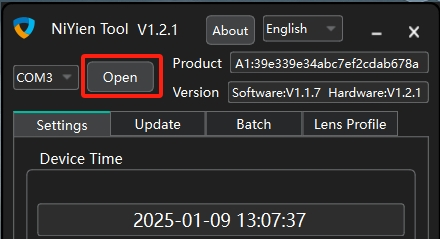
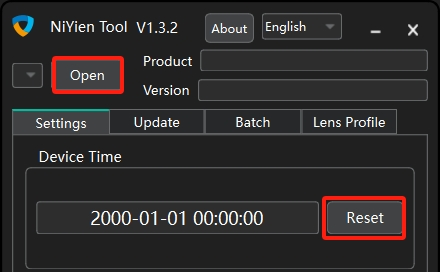
update

diff --git a/NiYien_manual_EN.html b/NiYien_manual_EN.html
@@ -1710,7 +1710,7 @@ a img {
 </style><title>NiYien_manual_EN</title>
 </head>
 <body class='typora-export os-windows typora-export-show-outline typora-export-no-collapse-outline'><div class='typora-export-content'>
-<div class="typora-export-sidebar"><div class="outline-content"><li class="outline-item-wrapper outline-h2"><div class="outline-item"><span class="outline-expander"></span><a class="outline-label" href="#video-tutorial">Video Tutorial</a></div><ul class="outline-children"></ul></li><li class="outline-item-wrapper outline-h2"><div class="outline-item"><span class="outline-expander"></span><a class="outline-label" href="#download-link">Download Link</a></div><ul class="outline-children"></ul></li><li class="outline-item-wrapper outline-h2"><div class="outline-item"><span class="outline-expander"></span><a class="outline-label" href="#faq-and-group-chat">FAQ and Group chat</a></div><ul class="outline-children"></ul></li><li class="outline-item-wrapper outline-h2"><div class="outline-item"><span class="outline-expander"></span><a class="outline-label" href="#1-introduction-to-gyroflow">1. Introduction to Gyroflow</a></div><ul class="outline-children"></ul></li><li class="outline-item-wrapper outline-h2"><div class="outline-item"><span class="outline-expander"></span><a class="outline-label" href="#2-device-introduction-and-basic-operations">2. Device Introduction and Basic Operations</a></div><ul class="outline-children"><li class="outline-item-wrapper outline-h3"><div class="outline-item"><span class="outline-expander"></span><a class="outline-label" href="#21-introduction">2.1 Introduction</a></div><ul class="outline-children"></ul></li><li class="outline-item-wrapper outline-h3"><div class="outline-item"><span class="outline-expander"></span><a class="outline-label" href="#22-operations">2.2 Operations</a></div><ul class="outline-children"><li class="outline-item-wrapper outline-h4"><div class="outline-item"><span class="outline-expander"></span><a class="outline-label" href="#221-button-operations">2.2.1 Button Operations</a></div><ul class="outline-children"></ul></li><li class="outline-item-wrapper outline-h4"><div class="outline-item"><span class="outline-expander"></span><a class="outline-label" href="#222-functions-and-interface-display">2.2.2 Functions and Interface Display</a></div><ul class="outline-children"></ul></li></ul></li><li class="outline-item-wrapper outline-h3"><div class="outline-item"><span class="outline-expander"></span><a class="outline-label" href="#24-gyroscope-calibration">2.4 Gyroscope calibration</a></div><ul class="outline-children"></ul></li><li class="outline-item-wrapper outline-h3"><div class="outline-item"><span class="outline-expander"></span><a class="outline-label" href="#25-memory-card-reading-and-formatting">2.5 Memory card reading and Formatting</a></div><ul class="outline-children"></ul></li><li class="outline-item-wrapper outline-h3"><div class="outline-item"><span class="outline-expander"></span><a class="outline-label" href="#25-firmware-upgrade">2.5 Firmware Upgrade</a></div><ul class="outline-children"></ul></li></ul></li><li class="outline-item-wrapper outline-h2"><div class="outline-item"><span class="outline-expander"></span><a class="outline-label" href="#3-camera-synchronization">3. Camera Synchronization</a></div><ul class="outline-children"><li class="outline-item-wrapper outline-h3"><div class="outline-item"><span class="outline-expander"></span><a class="outline-label" href="#31-camera-settings">3.1 Camera settings</a></div><ul class="outline-children"></ul></li><li class="outline-item-wrapper outline-h3"><div class="outline-item"><span class="outline-expander"></span><a class="outline-label" href="#32-time-synchronization-operation">3.2 Time synchronization operation</a></div><ul class="outline-children"></ul></li></ul></li><li class="outline-item-wrapper outline-h2"><div class="outline-item"><span class="outline-expander"></span><a class="outline-label" href="#4-software-installation">4. Software installation</a></div><ul class="outline-children"><li class="outline-item-wrapper outline-h3"><div class="outline-item"><span class="outline-expander"></span><a class="outline-label" href="#41-gyroflow-installation">4.1 Gyroflow Installation</a></div><ul class="outline-children"><li class="outline-item-wrapper outline-h4 outline-item-open"><div class="outline-item"><span class="outline-expander"></span><a class="outline-label" href="#411-windows-installation">4.1.1 Windows Installation</a></div><ul class="outline-children"></ul></li><li class="outline-item-wrapper outline-h4"><div class="outline-item"><span class="outline-expander"></span><a class="outline-label" href="#412-macos-installation">4.1.2 Macos Installation</a></div><ul class="outline-children"></ul></li></ul></li><li class="outline-item-wrapper outline-h3"><div class="outline-item"><span class="outline-expander"></span><a class="outline-label" href="#42-niyien-tool-installation">4.2 NiYien Tool Installation</a></div><ul class="outline-children"><li class="outline-item-wrapper outline-h4"><div class="outline-item"><span class="outline-expander"></span><a class="outline-label" href="#421-windows">4.2.1 Windows</a></div><ul class="outline-children"></ul></li><li class="outline-item-wrapper outline-h4"><div class="outline-item"><span class="outline-expander"></span><a class="outline-label" href="#422-macos">4.2.2 Macos</a></div><ul class="outline-children"></ul></li></ul></li></ul></li><li class="outline-item-wrapper outline-h2"><div class="outline-item"><span class="outline-expander"></span><a class="outline-label" href="#5niyien-tool-usage">5.NiYien Tool Usage</a></div><ul class="outline-children"><li class="outline-item-wrapper outline-h3"><div class="outline-item"><span class="outline-expander"></span><a class="outline-label" href="#51-importing-videos">5.1 Importing Videos</a></div><ul class="outline-children"></ul></li><li class="outline-item-wrapper outline-h3"><div class="outline-item"><span class="outline-expander"></span><a class="outline-label" href="#52-time-synchronization-and-data-allocation">5.2 Time Synchronization and Data Allocation</a></div><ul class="outline-children"></ul></li><li class="outline-item-wrapper outline-h3"><div class="outline-item"><span class="outline-expander"></span><a class="outline-label" href="#53-lens-profiles">5.3 Lens Profiles</a></div><ul class="outline-children"></ul></li><li class="outline-item-wrapper outline-h3"><div class="outline-item"><span class="outline-expander"></span><a class="outline-label" href="#531-lens-profile-generation-for-manual-mode">5.3.1 Lens Profile Generation (For Manual Mode)</a></div><ul class="outline-children"></ul></li><li class="outline-item-wrapper outline-h3"><div class="outline-item"><span class="outline-expander"></span><a class="outline-label" href="#54-stabilization-settings">5.4 Stabilization settings</a></div><ul class="outline-children"><li class="outline-item-wrapper outline-h4"><div class="outline-item"><span class="outline-expander"></span><a class="outline-label" href="#541-vertical-shooting">5.4.1 Vertical Shooting</a></div><ul class="outline-children"></ul></li><li class="outline-item-wrapper outline-h4"><div class="outline-item"><span class="outline-expander"></span><a class="outline-label" href="#542-installation-direction">5.4.2 Installation direction</a></div><ul class="outline-children"></ul></li><li class="outline-item-wrapper outline-h4"><div class="outline-item"><span class="outline-expander"></span><a class="outline-label" href="#543-lock-horizon-for-fpv-auto-rotation-sync-speed">5.4.3 Lock horizon, For FPV, Auto Rotation, Sync speed</a></div><ul class="outline-children"></ul></li><li class="outline-item-wrapper outline-h4"><div class="outline-item"><span class="outline-expander"></span><a class="outline-label" href="#544-match-list-and-settings">5.4.4 Match List and Settings</a></div><ul class="outline-children"></ul></li></ul></li><li class="outline-item-wrapper outline-h3"><div class="outline-item"><span class="outline-expander"></span><a class="outline-label" href="#55-export">5.5 Export</a></div><ul class="outline-children"></ul></li><li class="outline-item-wrapper outline-h3"><div class="outline-item"><span class="outline-expander"></span><a class="outline-label" href="#56-other-settings">5.6 Other Settings</a></div><ul class="outline-children"><li class="outline-item-wrapper outline-h4"><div class="outline-item"><span class="outline-expander"></span><a class="outline-label" href="#561-clock-setting">5.6.1 Clock Setting</a></div><ul class="outline-children"></ul></li><li class="outline-item-wrapper outline-h4"><div class="outline-item"><span class="outline-expander"></span><a class="outline-label" href="#562-focal-length-display">5.6.2 Focal Length Display</a></div><ul class="outline-children"></ul></li></ul></li><li class="outline-item-wrapper outline-h3"><div class="outline-item"><span class="outline-expander"></span><a class="outline-label" href="#563-firmware-upgrade">5.6.3 Firmware Upgrade</a></div><ul class="outline-children"></ul></li></ul></li><li class="outline-item-wrapper outline-h2"><div class="outline-item"><span class="outline-expander"></span><a class="outline-label" href="#6video-plugin-usage">6.Video Plugin Usage</a></div><ul class="outline-children"><li class="outline-item-wrapper outline-h3"><div class="outline-item"><span class="outline-expander"></span><a class="outline-label" href="#61-plugins-installation">6.1 Plugins Installation</a></div><ul class="outline-children"></ul></li><li class="outline-item-wrapper outline-h3"><div class="outline-item"><span class="outline-expander"></span><a class="outline-label" href="#62-davinci-resolve-plugin">6.2 DaVinci Resolve Plugin</a></div><ul class="outline-children"></ul></li><li class="outline-item-wrapper outline-h3"><div class="outline-item"><span class="outline-expander"></span><a class="outline-label" href="#73-prae-plugin">7.3 PR/AE Plugin</a></div><ul class="outline-children"></ul></li></ul></li><li class="outline-item-wrapper outline-h2"><div class="outline-item"><span class="outline-expander"></span><a class="outline-label" href="#7use-of-gyroflowsingle-video-stabilisation">7.Use of Gyroflow(Single video stabilisation)</a></div><ul class="outline-children"><li class="outline-item-wrapper outline-h3"><div class="outline-item"><span class="outline-expander"></span><a class="outline-label" href="#71-language-settings">7.1 Language Settings</a></div><ul class="outline-children"></ul></li><li class="outline-item-wrapper outline-h3"><div class="outline-item"><span class="outline-expander"></span><a class="outline-label" href="#72-interface">7.2 Interface</a></div><ul class="outline-children"><li class="outline-item-wrapper outline-h4"><div class="outline-item"><span class="outline-expander"></span><a class="outline-label" href="#721-footage-panel">7.2.1 Footage Panel</a></div><ul class="outline-children"></ul></li><li class="outline-item-wrapper outline-h4"><div class="outline-item"><span class="outline-expander"></span><a class="outline-label" href="#722-parameter-panel">7.2.2 Parameter Panel</a></div><ul class="outline-children"></ul></li><li class="outline-item-wrapper outline-h4"><div class="outline-item"><span class="outline-expander"></span><a class="outline-label" href="#723-data-panel">7.2.3 Data Panel</a></div><ul class="outline-children"></ul></li></ul></li><li class="outline-item-wrapper outline-h3"><div class="outline-item"><span class="outline-expander"></span><a class="outline-label" href="#73-video-stabilisation">7.3 Video stabilisation</a></div><ul class="outline-children"><li class="outline-item-wrapper outline-h4"><div class="outline-item"><span class="outline-expander"></span><a class="outline-label" href="#731-single-video-stabilization">7.3.1 Single Video Stabilization</a></div><ul class="outline-children"></ul></li><li class="outline-item-wrapper outline-h4"><div class="outline-item"><span class="outline-expander"></span><a class="outline-label" href="#732-exporting-video">7.3.2 Exporting Video</a></div><ul class="outline-children"></ul></li></ul></li></ul></li><li class="outline-item-wrapper outline-h2"><div class="outline-item"><span class="outline-expander"></span><a class="outline-label" href="#8faq">8.FAQ</a></div><ul class="outline-children"><li class="outline-item-wrapper outline-h3"><div class="outline-item"><span class="outline-expander"></span><a class="outline-label" href="#81-in-macos-batch-synchronization-failed-or-videos-can-not-loaded-in-gyroflow">8.1 In MacOS, Batch synchronization failed or videos can not loaded in gyroflow.</a></div><ul class="outline-children"></ul></li><li class="outline-item-wrapper outline-h3"><div class="outline-item"><span class="outline-expander"></span><a class="outline-label" href="#82-abnormal-stabilization">8.2 Abnormal Stabilization</a></div><ul class="outline-children"></ul></li><li class="outline-item-wrapper outline-h3"><div class="outline-item"><span class="outline-expander"></span><a class="outline-label" href="#83-stabilization-effective-but-vestigial-or-jelly-image">8.3 Stabilization effective but vestigial or jelly image.</a></div><ul class="outline-children"></ul></li><li class="outline-item-wrapper outline-h3"><div class="outline-item"><span class="outline-expander"></span><a class="outline-label" href="#84-forgot-to-record-time-synchronization-video">8.4 Forgot to record time synchronization video</a></div><ul class="outline-children"></ul></li><li class="outline-item-wrapper outline-h3"><div class="outline-item"><span class="outline-expander"></span><a class="outline-label" href="#85-success-in-gyroflow-but-failed-in-davinci-plugin">8.5 Success in Gyroflow but failed in DaVinci plugin</a></div><ul class="outline-children"></ul></li></ul></li></div></div><div id='write'  class=''><h2 id='video-tutorial'><span>Video Tutorial</span></h2><blockquote><p>👉<span> </span><a href='https://b23.tv/kycTbTD' target="_blank" ><span><span>Click here for the HD version </span></span></a></p></blockquote><iframe src="https://player.bilibili.com/player.html?isOutside=true&aid=1053012894&bvid=BV1rH4y1M7UL&cid=28721744775&p=1&autoplay=0" scrolling="no" border="0" frameborder="no" framespacing="0" allowfullscreen="true" style="width: 100%; aspect-ratio: 16/9;"></iframe><h2 id='download-link'><span>Download Link</span></h2><blockquote><p>👉<span> </span><a href='https://drive.google.com/drive/folders/14lVHH6HA2oLJyfxAodWUDE8_jFBOleJf?usp=sharing' target="_blank" ><span><span>NiYien Tool for MacOS</span></span></a>
+<div class="typora-export-sidebar"><div class="outline-content"><li class="outline-item-wrapper outline-h2"><div class="outline-item"><span class="outline-expander"></span><a class="outline-label" href="#video-tutorial">Video Tutorial</a></div><ul class="outline-children"></ul></li><li class="outline-item-wrapper outline-h2"><div class="outline-item"><span class="outline-expander"></span><a class="outline-label" href="#download-link">Download Link</a></div><ul class="outline-children"></ul></li><li class="outline-item-wrapper outline-h2"><div class="outline-item"><span class="outline-expander"></span><a class="outline-label" href="#faq-and-group-chat">FAQ and Group chat</a></div><ul class="outline-children"></ul></li><li class="outline-item-wrapper outline-h2"><div class="outline-item"><span class="outline-expander"></span><a class="outline-label" href="#1-introduction-to-gyroflow">1. Introduction to Gyroflow</a></div><ul class="outline-children"></ul></li><li class="outline-item-wrapper outline-h2"><div class="outline-item"><span class="outline-expander"></span><a class="outline-label" href="#2-device-introduction-and-basic-operations">2. Device Introduction and Basic Operations</a></div><ul class="outline-children"><li class="outline-item-wrapper outline-h3"><div class="outline-item"><span class="outline-expander"></span><a class="outline-label" href="#21-introduction">2.1 Introduction</a></div><ul class="outline-children"></ul></li><li class="outline-item-wrapper outline-h3"><div class="outline-item"><span class="outline-expander"></span><a class="outline-label" href="#22-operations">2.2 Operations</a></div><ul class="outline-children"><li class="outline-item-wrapper outline-h4"><div class="outline-item"><span class="outline-expander"></span><a class="outline-label" href="#221-button-operations">2.2.1 Button Operations</a></div><ul class="outline-children"></ul></li><li class="outline-item-wrapper outline-h4"><div class="outline-item"><span class="outline-expander"></span><a class="outline-label" href="#222-functions-and-interface-display">2.2.2 Functions and Interface Display</a></div><ul class="outline-children"></ul></li></ul></li><li class="outline-item-wrapper outline-h3"><div class="outline-item"><span class="outline-expander"></span><a class="outline-label" href="#24-gyroscope-calibration">2.4 Gyroscope calibration</a></div><ul class="outline-children"></ul></li><li class="outline-item-wrapper outline-h3"><div class="outline-item"><span class="outline-expander"></span><a class="outline-label" href="#25-memory-card-reading-and-formatting">2.5 Memory card reading and Formatting</a></div><ul class="outline-children"></ul></li><li class="outline-item-wrapper outline-h3"><div class="outline-item"><span class="outline-expander"></span><a class="outline-label" href="#25-firmware-upgrade">2.5 Firmware Upgrade</a></div><ul class="outline-children"></ul></li></ul></li><li class="outline-item-wrapper outline-h2"><div class="outline-item"><span class="outline-expander"></span><a class="outline-label" href="#3-camera-synchronization">3. Camera Synchronization</a></div><ul class="outline-children"><li class="outline-item-wrapper outline-h3"><div class="outline-item"><span class="outline-expander"></span><a class="outline-label" href="#31-camera-settings">3.1 Camera settings</a></div><ul class="outline-children"></ul></li><li class="outline-item-wrapper outline-h3"><div class="outline-item"><span class="outline-expander"></span><a class="outline-label" href="#32-time-synchronization-operation">3.2 Time synchronization operation</a></div><ul class="outline-children"></ul></li></ul></li><li class="outline-item-wrapper outline-h2"><div class="outline-item"><span class="outline-expander"></span><a class="outline-label" href="#4-software-installation">4. Software installation</a></div><ul class="outline-children"><li class="outline-item-wrapper outline-h3"><div class="outline-item"><span class="outline-expander"></span><a class="outline-label" href="#41-gyroflow-installation">4.1 Gyroflow Installation</a></div><ul class="outline-children"><li class="outline-item-wrapper outline-h4"><div class="outline-item"><span class="outline-expander"></span><a class="outline-label" href="#411-windows-installation">4.1.1 Windows Installation</a></div><ul class="outline-children"></ul></li><li class="outline-item-wrapper outline-h4"><div class="outline-item"><span class="outline-expander"></span><a class="outline-label" href="#412-macos-installation">4.1.2 Macos Installation</a></div><ul class="outline-children"></ul></li></ul></li><li class="outline-item-wrapper outline-h3"><div class="outline-item"><span class="outline-expander"></span><a class="outline-label" href="#42-niyien-tool-installation">4.2 NiYien Tool Installation</a></div><ul class="outline-children"><li class="outline-item-wrapper outline-h4"><div class="outline-item"><span class="outline-expander"></span><a class="outline-label" href="#421-windows">4.2.1 Windows</a></div><ul class="outline-children"></ul></li><li class="outline-item-wrapper outline-h4"><div class="outline-item"><span class="outline-expander"></span><a class="outline-label" href="#422-macos">4.2.2 Macos</a></div><ul class="outline-children"></ul></li></ul></li></ul></li><li class="outline-item-wrapper outline-h2"><div class="outline-item"><span class="outline-expander"></span><a class="outline-label" href="#5niyien-tool-usage">5.NiYien Tool Usage</a></div><ul class="outline-children"><li class="outline-item-wrapper outline-h3"><div class="outline-item"><span class="outline-expander"></span><a class="outline-label" href="#51-importing-videos">5.1 Importing Videos</a></div><ul class="outline-children"></ul></li><li class="outline-item-wrapper outline-h3"><div class="outline-item"><span class="outline-expander"></span><a class="outline-label" href="#52-time-synchronization-and-data-allocation">5.2 Time Synchronization and Data Allocation</a></div><ul class="outline-children"></ul></li><li class="outline-item-wrapper outline-h3"><div class="outline-item"><span class="outline-expander"></span><a class="outline-label" href="#53-lens-profiles">5.3 Lens Profiles</a></div><ul class="outline-children"></ul></li><li class="outline-item-wrapper outline-h3"><div class="outline-item"><span class="outline-expander"></span><a class="outline-label" href="#531-lens-profile-generation-for-manual-mode">5.3.1 Lens Profile Generation (For Manual Mode)</a></div><ul class="outline-children"></ul></li><li class="outline-item-wrapper outline-h3"><div class="outline-item"><span class="outline-expander"></span><a class="outline-label" href="#54-stabilization-settings">5.4 Stabilization settings</a></div><ul class="outline-children"><li class="outline-item-wrapper outline-h4"><div class="outline-item"><span class="outline-expander"></span><a class="outline-label" href="#541-vertical-shooting">5.4.1 Vertical Shooting</a></div><ul class="outline-children"></ul></li><li class="outline-item-wrapper outline-h4"><div class="outline-item"><span class="outline-expander"></span><a class="outline-label" href="#542-installation-direction">5.4.2 Installation direction</a></div><ul class="outline-children"></ul></li><li class="outline-item-wrapper outline-h4"><div class="outline-item"><span class="outline-expander"></span><a class="outline-label" href="#543-lock-horizon-for-fpv-auto-rotation-sync-speed">5.4.3 Lock horizon, For FPV, Auto Rotation, Sync speed</a></div><ul class="outline-children"></ul></li><li class="outline-item-wrapper outline-h4"><div class="outline-item"><span class="outline-expander"></span><a class="outline-label" href="#544-match-list-and-settings">5.4.4 Match List and Settings</a></div><ul class="outline-children"></ul></li></ul></li><li class="outline-item-wrapper outline-h3"><div class="outline-item"><span class="outline-expander"></span><a class="outline-label" href="#55-export">5.5 Export</a></div><ul class="outline-children"></ul></li><li class="outline-item-wrapper outline-h3"><div class="outline-item"><span class="outline-expander"></span><a class="outline-label" href="#56-other-settings">5.6 Other Settings</a></div><ul class="outline-children"><li class="outline-item-wrapper outline-h4 outline-item-open"><div class="outline-item"><span class="outline-expander"></span><a class="outline-label" href="#561-clock-setting">5.6.1 Clock Setting</a></div><ul class="outline-children"></ul></li><li class="outline-item-wrapper outline-h4"><div class="outline-item"><span class="outline-expander"></span><a class="outline-label" href="#562-focal-length-display">5.6.2 Focal Length Display</a></div><ul class="outline-children"></ul></li></ul></li><li class="outline-item-wrapper outline-h3"><div class="outline-item"><span class="outline-expander"></span><a class="outline-label" href="#563-firmware-upgrade">5.6.3 Firmware Upgrade</a></div><ul class="outline-children"></ul></li></ul></li><li class="outline-item-wrapper outline-h2"><div class="outline-item"><span class="outline-expander"></span><a class="outline-label" href="#6video-plugin-usage">6.Video Plugin Usage</a></div><ul class="outline-children"><li class="outline-item-wrapper outline-h3"><div class="outline-item"><span class="outline-expander"></span><a class="outline-label" href="#61-plugins-installation">6.1 Plugins Installation</a></div><ul class="outline-children"></ul></li><li class="outline-item-wrapper outline-h3"><div class="outline-item"><span class="outline-expander"></span><a class="outline-label" href="#62-davinci-resolve-plugin">6.2 DaVinci Resolve Plugin</a></div><ul class="outline-children"></ul></li><li class="outline-item-wrapper outline-h3"><div class="outline-item"><span class="outline-expander"></span><a class="outline-label" href="#73-prae-plugin">7.3 PR/AE Plugin</a></div><ul class="outline-children"></ul></li></ul></li><li class="outline-item-wrapper outline-h2"><div class="outline-item"><span class="outline-expander"></span><a class="outline-label" href="#7use-of-gyroflowsingle-video-stabilisation">7.Use of Gyroflow(Single video stabilisation)</a></div><ul class="outline-children"><li class="outline-item-wrapper outline-h3"><div class="outline-item"><span class="outline-expander"></span><a class="outline-label" href="#71-language-settings">7.1 Language Settings</a></div><ul class="outline-children"></ul></li><li class="outline-item-wrapper outline-h3"><div class="outline-item"><span class="outline-expander"></span><a class="outline-label" href="#72-interface">7.2 Interface</a></div><ul class="outline-children"><li class="outline-item-wrapper outline-h4"><div class="outline-item"><span class="outline-expander"></span><a class="outline-label" href="#721-footage-panel">7.2.1 Footage Panel</a></div><ul class="outline-children"></ul></li><li class="outline-item-wrapper outline-h4"><div class="outline-item"><span class="outline-expander"></span><a class="outline-label" href="#722-parameter-panel">7.2.2 Parameter Panel</a></div><ul class="outline-children"></ul></li><li class="outline-item-wrapper outline-h4"><div class="outline-item"><span class="outline-expander"></span><a class="outline-label" href="#723-data-panel">7.2.3 Data Panel</a></div><ul class="outline-children"></ul></li></ul></li><li class="outline-item-wrapper outline-h3"><div class="outline-item"><span class="outline-expander"></span><a class="outline-label" href="#73-video-stabilisation">7.3 Video stabilisation</a></div><ul class="outline-children"><li class="outline-item-wrapper outline-h4"><div class="outline-item"><span class="outline-expander"></span><a class="outline-label" href="#731-single-video-stabilization">7.3.1 Single Video Stabilization</a></div><ul class="outline-children"></ul></li><li class="outline-item-wrapper outline-h4"><div class="outline-item"><span class="outline-expander"></span><a class="outline-label" href="#732-exporting-video">7.3.2 Exporting Video</a></div><ul class="outline-children"></ul></li></ul></li></ul></li><li class="outline-item-wrapper outline-h2"><div class="outline-item"><span class="outline-expander"></span><a class="outline-label" href="#8faq">8.FAQ</a></div><ul class="outline-children"><li class="outline-item-wrapper outline-h3"><div class="outline-item"><span class="outline-expander"></span><a class="outline-label" href="#81-in-macos-batch-synchronization-failed-or-videos-can-not-loaded-in-gyroflow">8.1 In MacOS, Batch synchronization failed or videos can not loaded in gyroflow.</a></div><ul class="outline-children"></ul></li><li class="outline-item-wrapper outline-h3"><div class="outline-item"><span class="outline-expander"></span><a class="outline-label" href="#82-abnormal-stabilization">8.2 Abnormal Stabilization</a></div><ul class="outline-children"></ul></li><li class="outline-item-wrapper outline-h3"><div class="outline-item"><span class="outline-expander"></span><a class="outline-label" href="#83-stabilization-effective-but-vestigial-or-jelly-image">8.3 Stabilization effective but vestigial or jelly image.</a></div><ul class="outline-children"></ul></li><li class="outline-item-wrapper outline-h3"><div class="outline-item"><span class="outline-expander"></span><a class="outline-label" href="#84-forgot-to-record-time-synchronization-video">8.4 Forgot to record time synchronization video</a></div><ul class="outline-children"></ul></li><li class="outline-item-wrapper outline-h3"><div class="outline-item"><span class="outline-expander"></span><a class="outline-label" href="#85-success-in-gyroflow-but-failed-in-davinci-plugin">8.5 Success in Gyroflow but failed in DaVinci plugin</a></div><ul class="outline-children"></ul></li></ul></li></div></div><div id='write'  class=''><h2 id='video-tutorial'><span>Video Tutorial</span></h2><blockquote><p>👉<span> </span><a href='https://b23.tv/kycTbTD' target="_blank" ><span><span>Click here for the HD version </span></span></a></p></blockquote><iframe src="https://player.bilibili.com/player.html?isOutside=true&aid=1053012894&bvid=BV1rH4y1M7UL&cid=28721744775&p=1&autoplay=0" scrolling="no" border="0" frameborder="no" framespacing="0" allowfullscreen="true" style="width: 100%; aspect-ratio: 16/9;"></iframe><h2 id='download-link'><span>Download Link</span></h2><blockquote><p>👉<span> </span><a href='https://drive.google.com/drive/folders/14lVHH6HA2oLJyfxAodWUDE8_jFBOleJf?usp=sharing' target="_blank" ><span><span>NiYien Tool for MacOS</span></span></a>
 👉<span> </span><a href='https://drive.google.com/drive/folders/1JcgBvcy9HCDQzrZVCUgb1-XcJmI7s8ma?usp=sharing' target="_blank" ><span><span>NiYien Tool for Windows</span></span></a>
 👉<span> </span><a href='https://www.niyien.com/update_A1_en.html' target="_blank" ><span><span>Firmware update log</span></span></a><span>,</span><a href='https://www.niyien.com/update_Niyien_tool_en.html' target="_blank" ><span><span>NiYien Tool update log</span></span></a></p></blockquote><h2 id='faq-and-group-chat'><span>FAQ and Group chat</span></h2><blockquote><p>👉<span> </span><a href='#8faq'><span>FAQ</span></a>
 <span>👉 </span><a href='https://discord.gg/dyna2DtqEA' target="_blank" ><span><span>Discord: NiYien</span></span></a></p></blockquote><h2 id='1-introduction-to-gyroflow'><span>1. Introduction to Gyroflow</span></h2><p><img src="./resources/img/gyroflow.png" style="width:130px" style="margin: 10px;"/>
@@ -1793,7 +1793,7 @@ a img {
 <strong><span>Change smoothness:</span></strong><span> Multiple smoothness are available, with &quot;Normal&quot; being the default. You can also choose to remove jelly effects only.</span>
 <strong><span>Change the frame rate:</span></strong><span> Enter the high frame rate used for slow-motion videos (high frame rate recording, low frame rate playback) to support stabilization of slow-motion footage.</span></p><h3 id='55-export'><span>5.5 Export</span></h3><p><span>Click Export. There are two export modes. </span></p><p><strong><span>Auto Sync for plugins:</span></strong><span>Quickly generates project files that can be viewed in Gyroflow and used in DaVinci, PR/AE plugins.</span></p><p><strong><span>Export stabilized videos:</span></strong><span>Exporting stabilized  videos after Auto Sync. During export, if encoding issues are prompted, follow the instructions to select the correct encoding.</span></p><div style="display: flex; justify-content: center;">
     <img src="./resources/screen_en/batch_out.png" style="width: 500px;">
-</div><h3 id='56-other-settings'><span>5.6 Other Settings</span></h3><h4 id='561-clock-setting'><span>5.6.1 Clock Setting</span></h4><ol start='' ><li><p><span>Turn on the device, and connect it to the computer using a Type-C cable.</span></p></li><li><p><span>Click </span><code>Open</code><span> in NiYien Tool.</span></p></li></ol><p><span>The Niyien tool will automatically synchronize the latest time from computer to the device.</span></p><div style="display: flex; justify-content: center;">
+</div><h3 id='56-other-settings'><span>5.6 Other Settings</span></h3><h4 id='561-clock-setting'><span>5.6.1 Clock Setting</span></h4><ol start='' ><li><p><span>Turn on the device, and connect it to the computer using a Type-C cable.</span></p></li><li><p><span>Click </span><code>Open</code><span> in NiYien Tool.</span></p></li><li><p><span>Click </span><code>Reset</code><span>.</span></p></li></ol><div style="display: flex; justify-content: center;">
     <img src="./resources/screen_en/time.png" style="width: 350px;">
 </div><p>&nbsp;</p><h4 id='562-focal-length-display'><span>5.6.2 Focal Length Display</span></h4><ol start='' ><li><p><span>Turn on the device and connect it to the computer using a Type-C cable, </span></p></li><li><p><span>Click </span><code>Open</code><span> in NiYien Tool.</span></p></li><li><p><span>Click the </span><code>Lens&amp;Settings</code><span> button and load the lens profiles needed.</span></p></li><li><p><span>Click </span><code>Write to NiYien Device</code><span>. (Click </span><code>Clear NiYien Device</code><span>to restore the default lens number).</span></p></li></ol><div style="display: flex; justify-content: center;">
     <img src="./resources/screen_en/settings1.png" style="width: 500px;">

diff --git a/NiYien_manual_ZH.html b/NiYien_manual_ZH.html
@@ -1800,7 +1800,7 @@ a img {
 <strong><span>自动同步:</span></strong><span> 快速生成的工程文件，可以在Gyroflow中查看效果。也可以被达芬奇、PR/AE等插件使用。</span>
 <strong><span>导出稳定视频:</span></strong><span> 在自动同步的基础上，导出稳定视频。(导出过程中，可能提示编码不对，按照提示选择编码即可)。</span></p><div style="display: flex; justify-content: center;">
     <img src="./resources/screen_zh/batch_out.png" style="width: 500px;">
-</div><h3 id='56-其他设置'><span>5.6 其他设置</span></h3><h4 id='561-时钟设置'><span>5.6.1 时钟设置</span></h4><p><span>设备开机，使用Type-c线连接设备与电脑，点击打开设备。</span></p><p><span>尼影工具会自动同步最新时间至设备。</span></p><div style="display: flex; justify-content: center;">
+</div><h3 id='56-其他设置'><span>5.6 其他设置</span></h3><h4 id='561-时钟设置'><span>5.6.1 时钟设置</span></h4><p><span>设备开机，使用Type-c线连接设备与电脑，点击打开设备。</span></p><p><span>然后点击&quot;重置&quot;。</span></p><div style="display: flex; justify-content: center;">
     <img src="./resources/screen_zh/time.png" style="width: 350px;">
 </div><p>&nbsp;</p><h4 id='562-焦段显示'><span>5.6.2 焦段显示</span></h4><ol start='' ><li><p><span>设备开机，使用Type-c线连接设备与电脑，点击打开设备。</span></p></li><li><p><span>打开镜头及设置界面，依次加载镜头配置文件。</span></p></li><li><p><span>点击</span><code>写入NiYien设备</code><span>。(点击</span><code>清除NiYien设备</code><span>，就是恢复默认镜头号)。</span></p></li></ol><div style="display: flex; justify-content: center;">
     <img src="./resources/screen_zh/settings1.png" style="width: 500px;">
